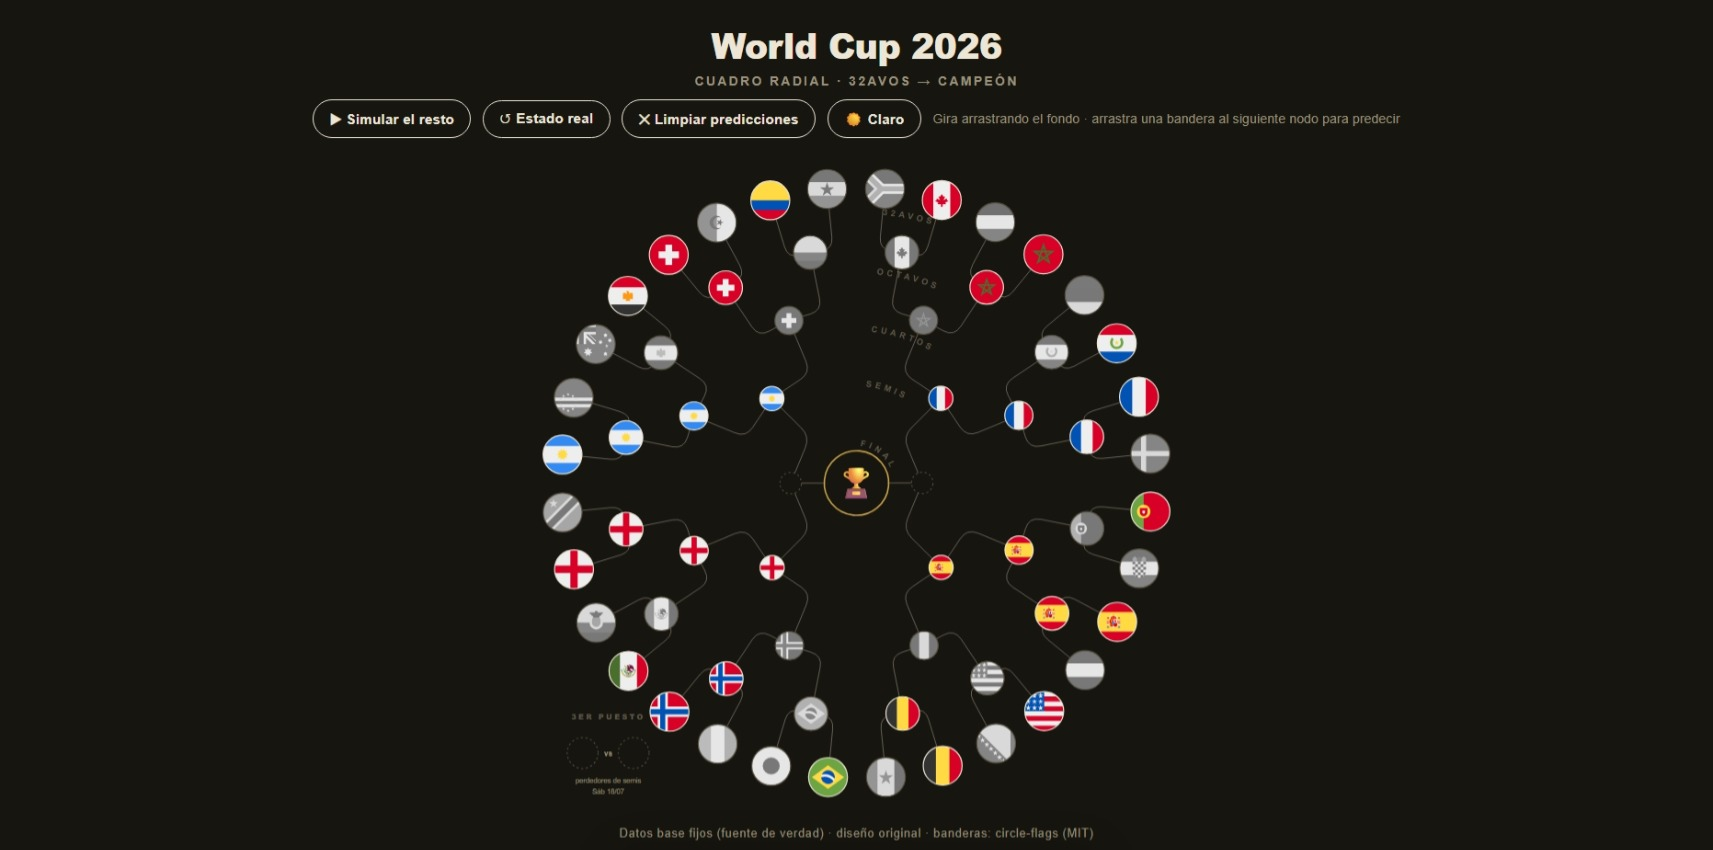
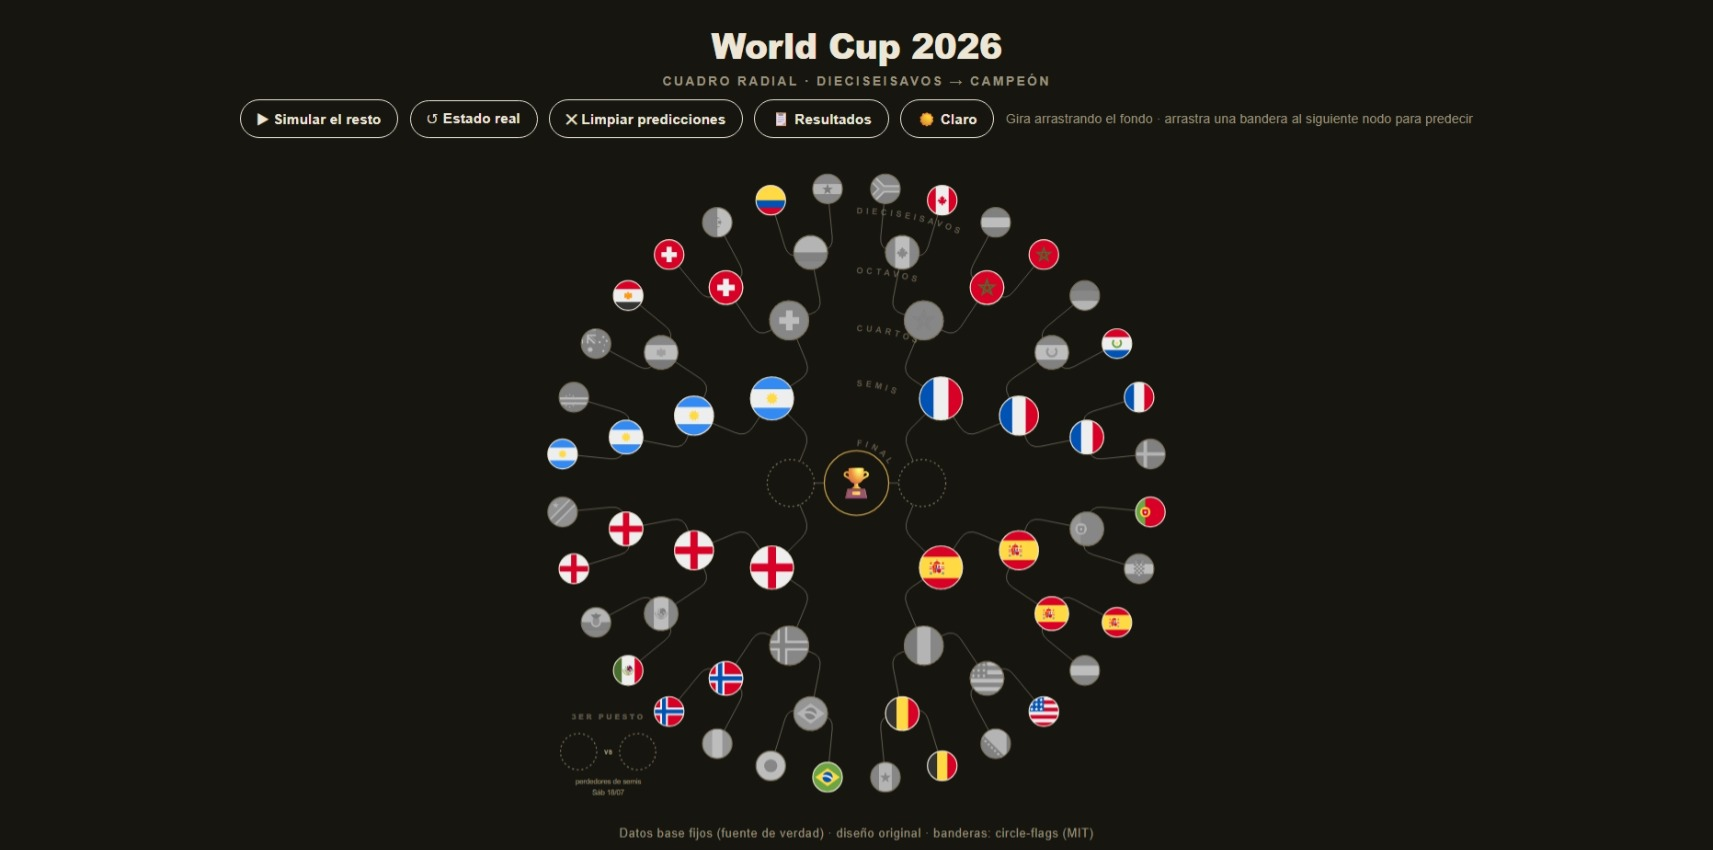
Improved design for levels/rounds

diff --git a/index.html b/index.html
@@ -344,7 +344,7 @@ const GROUPWINS = {"jp":1,"ci":2,"no":2,"mx":3,"ec":1,"gb-eng":2,"cd":1,"ar":3,"
 // ---- GEOMETRÍA POLAR ----
 const CX=500, CY=500, N=32;
 const RADII=[440,350,262,178,98,0];        // anillos 0..5 (5 = campeón, centro)
-const DIAM =[58,50,42,36,32,96];           // diámetro del nodo por anillo
+const DIAM =[44,50,58,64,70,96];           // diámetro por anillo: CRECE hacia el título (crescendo)
 const RINGS=6;
 
 // Calcula ángulo (grados, 0=arriba) de cada posición en cada anillo.
@@ -658,7 +658,7 @@ function bronzeUp(ev){
   if(b.ghost) b.ghost.remove();
   if(bronzeSlotEl) bronzeSlotEl.classList.remove("target");
   const p=svgPointFixed(ev);
-  const hit = Math.hypot(p.x-130, p.y-946) <= 34;    // soltó sobre el slot 🥉
+  const hit = Math.hypot(p.x-130, p.y-954) <= 34;    // soltó sobre el slot 🥉
   const code=TEAMS[b.teamIdx][0];
   if(hit) predictions["3P"]=code;
   else if(predictions["3P"]===code) delete predictions["3P"];  // arrastrar fuera = quitar
@@ -700,14 +700,14 @@ function cornerFlag(teamIdx,x,y,diam,fromPt){
 function renderThird(animate){
   $third.innerHTML="";
   bronzeSlotEl=null;
-  const Y=902, XA=92, XB=168, D=46;
+  const Y=900, XA=86, XB=174, D=54;
   const tt=el("text",{x:130,y:852,class:"p3label","text-anchor":"middle"},$third); tt.textContent="3ER PUESTO";
   const losers=semiLosers(), tp=MATCHES["3P"];
   const vs=el("text",{x:130,y:Y+1,class:"p3vs","text-anchor":"middle","dominant-baseline":"central"},$third); vs.textContent="vs";
   if(!losers){
     [XA,XB].forEach(x=>el("circle",{cx:x,cy:Y,r:D/2,class:"slot"},$third));
-    const i1=el("text",{x:130,y:Y+44,class:"p3info","text-anchor":"middle"},$third); i1.textContent="perdedores de semis";
-    const i2=el("text",{x:130,y:Y+61,class:"p3info","text-anchor":"middle"},$third); i2.textContent="Sáb 18/07";
+    const i1=el("text",{x:130,y:Y+48,class:"p3info","text-anchor":"middle"},$third); i1.textContent="perdedores de semis";
+    const i2=el("text",{x:130,y:Y+65,class:"p3info","text-anchor":"middle"},$third); i2.textContent="Sáb 18/07";
     return;
   }
   const [A,B]=losers;
@@ -718,27 +718,27 @@ function renderThird(animate){
   const ga=cornerFlag(A,XA,Y,D,fA), gb=cornerFlag(B,XB,Y,D,fB);
   if(losers.pred){ ga.classList.add("pred"); gb.classList.add("pred"); }
   if(tp){
-    const sc=el("text",{x:130,y:Y+46,class:"p3score","text-anchor":"middle"},$third); sc.textContent=`${tp.score[0]}–${tp.score[1]}`;
+    const sc=el("text",{x:130,y:Y+50,class:"p3score","text-anchor":"middle"},$third); sc.textContent=`${tp.score[0]}–${tp.score[1]}`;
     const winA = CODE2IDX[tp.adv]===A;
     (winA? gb : ga).classList.add("dim");
-    const med=el("text",{x:(winA?XA:XB)+15,y:Y-17,"font-size":"16"},$third); med.textContent="🥉";
+    const med=el("text",{x:(winA?XA:XB)+18,y:Y-20,"font-size":"16"},$third); med.textContent="🥉";
   } else if(simThird!=null){
     const winA = simThird===A;
     (winA? gb : ga).classList.add("dim");
-    const med=el("text",{x:(winA?XA:XB)+15,y:Y-17,"font-size":"16"},$third); med.textContent="🥉";
-    const i2=el("text",{x:130,y:Y+46,class:"p3info","text-anchor":"middle"},$third); i2.textContent="simulación";
+    const med=el("text",{x:(winA?XA:XB)+18,y:Y-20,"font-size":"16"},$third); med.textContent="🥉";
+    const i2=el("text",{x:130,y:Y+50,class:"p3info","text-anchor":"middle"},$third); i2.textContent="simulación";
   } else {
     // slot de medalla: arrastra la bandera de tu candidato al bronce
-    bronzeSlotEl=el("circle",{cx:130,cy:946,r:13,class:"slot"},$third);
-    const mg=el("text",{x:130,y:947,"font-size":"12","text-anchor":"middle","dominant-baseline":"central",opacity:".65"},$third); mg.textContent="🥉";
+    bronzeSlotEl=el("circle",{cx:130,cy:954,r:13,class:"slot"},$third);
+    const mg=el("text",{x:130,y:955,"font-size":"12","text-anchor":"middle","dominant-baseline":"central",opacity:".65"},$third); mg.textContent="🥉";
     const pk = predictions["3P"]!=null ? CODE2IDX[predictions["3P"]] : null;
     if(pk!=null && (pk===A || pk===B)){
       const winA = pk===A;
       (winA? ga : gb).classList.add("pred");
-      const med=el("text",{x:(winA?XA:XB)+15,y:Y-17,"font-size":"16"},$third); med.textContent="🥉";
-      const i2=el("text",{x:130,y:977,class:"p3info","text-anchor":"middle"},$third); i2.textContent="tu predicción";
+      const med=el("text",{x:(winA?XA:XB)+18,y:Y-20,"font-size":"16"},$third); med.textContent="🥉";
+      const i2=el("text",{x:130,y:984,class:"p3info","text-anchor":"middle"},$third); i2.textContent="tu predicción";
     } else {
-      const i2=el("text",{x:130,y:977,class:"p3info","text-anchor":"middle"},$third); i2.textContent="Sáb 18/07 · arrastra al 🥉";
+      const i2=el("text",{x:130,y:984,class:"p3info","text-anchor":"middle"},$third); i2.textContent="Sáb 18/07 · arrastra al 🥉";
     }
     ga.addEventListener("pointerdown",ev=>bronzePointerDown(ev,A,XA,Y));
     gb.addEventListener("pointerdown",ev=>bronzePointerDown(ev,B,XB,Y));